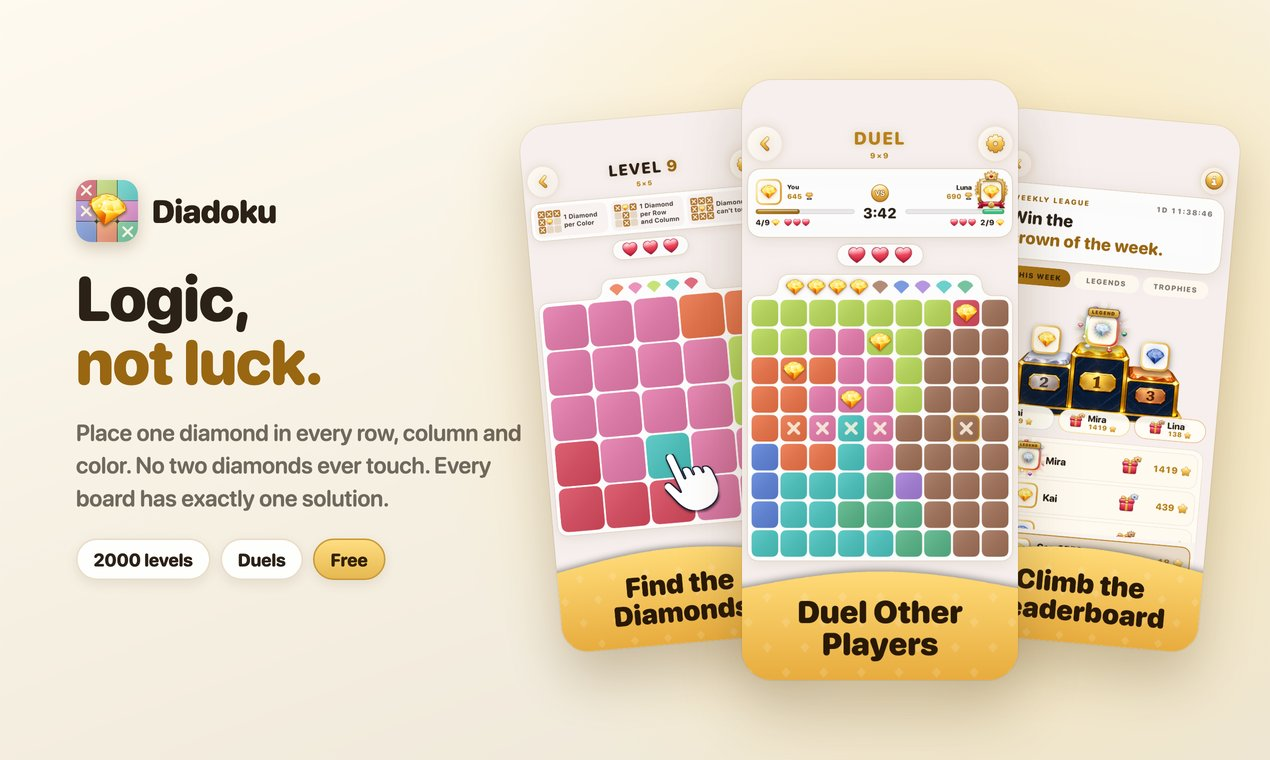
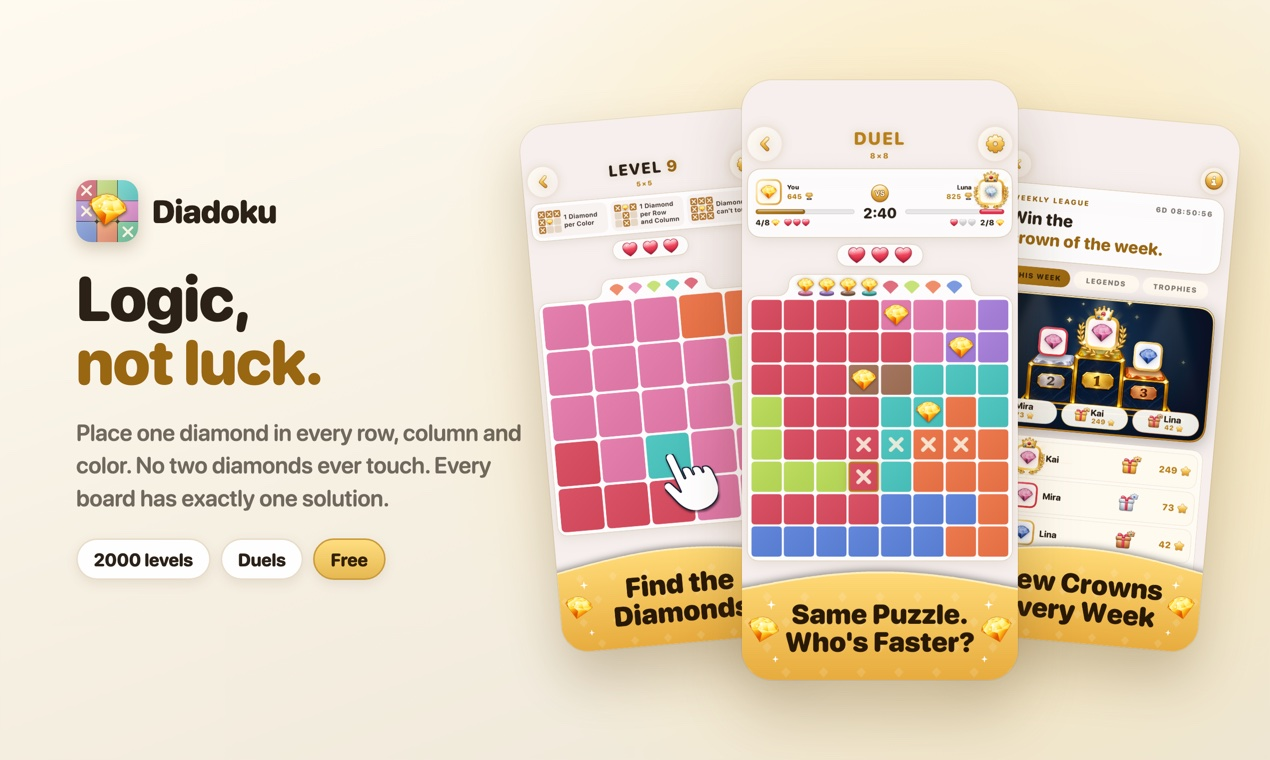
diadoku.com on 1.6: store images A, challenges by link, frame rarity, og image 1.6

diff --git a/index.html b/index.html
@@ -5,13 +5,13 @@
   <meta name="viewport" content="width=device-width, initial-scale=1">
   <meta name="theme-color" content="#fffaf0">
   <title>Diadoku: Logic, not luck</title>
-  <meta name="description" content="A calm logic puzzle for iPhone and iPad. Place one diamond in every row, column and color, and no two diamonds may touch. Every board has exactly one solution. 2000 levels, duels against other players and friends, a daily puzzle and a weekly star league, free.">
+  <meta name="description" content="A calm logic puzzle for iPhone and iPad. Place one diamond in every row, column and color, and no two diamonds may touch. Every board has exactly one solution. 2000 levels, duels against other players, challenges for friends by link, a daily puzzle and a weekly star league, free.">
   <link rel="canonical" href="https://diadoku.com/">
   <meta property="og:type" content="website">
   <meta property="og:title" content="Diadoku: Logic, not luck">
-  <meta property="og:description" content="Place one diamond in every row, column and color. Every board has exactly one solution. 2000 levels and duels with friends, free on iPhone and iPad.">
+  <meta property="og:description" content="Place one diamond in every row, column and color. Every board has exactly one solution. 2000 levels, duels and challenges for your friends, free on iPhone and iPad.">
   <meta property="og:url" content="https://diadoku.com/">
-  <meta property="og:image" content="https://diadoku.com/assets/og.jpg?v=15">
+  <meta property="og:image" content="https://diadoku.com/assets/og.jpg?v=16">
   <meta property="og:image:width" content="1270">
   <meta property="og:image:height" content="760">
   <meta name="twitter:card" content="summary_large_image">
@@ -49,9 +49,9 @@
         </a>
       </div>
       <div class="shots fan" aria-hidden="true">
-        <img src="assets/store/01-find-the-diamonds.webp?v=15" width="660" height="1434" alt="">
-        <img src="assets/store/04-duel-other-players.webp?v=15" width="660" height="1434" alt="">
-        <img src="assets/store/07-leaderboard.webp?v=15" width="660" height="1434" alt="">
+        <img src="assets/store/06-find-the-diamonds.webp?v=16" width="660" height="1434" alt="">
+        <img src="assets/store/01-same-puzzle.webp?v=16" width="660" height="1434" alt="">
+        <img src="assets/store/02-crowns-every-week.webp?v=16" width="660" height="1434" alt="">
       </div>
     </section>
 
@@ -74,13 +74,13 @@
 
     <section class="feature feature--flip" aria-labelledby="duel-title">
       <div class="copy">
-        <p class="eyebrow">New: Duel your friends</p>
+        <p class="eyebrow">New: Challenge your friends</p>
         <h2 id="duel-title">Same board. <em>Who is faster?</em></h2>
-        <p class="lead">Race another player on the same board, with three hearts and no hints. Win trophies and climb six leagues from Quartz to Diamond, with a new season every month. Or add your friends by name or with a link and race them live.</p>
+        <p class="lead">Race another player on the same board, with three hearts and no hints. Win trophies and climb six leagues from Quartz to Diamond. Won a duel or the daily puzzle? Send a friend the link: the same board, your time to beat. Or add your friends by name and race them live.</p>
       </div>
       <div class="shots pair">
-        <img src="assets/store/04-duel-other-players.webp?v=15" width="660" height="1434" loading="lazy" alt="A duel: you and your opponent race on the same board">
-        <img src="assets/store/05-duel-your-friends.webp?v=15" width="660" height="1434" loading="lazy" alt="The friends screen: invite friends and play them live">
+        <img src="assets/store/01-same-puzzle.webp?v=16" width="660" height="1434" loading="lazy" alt="A duel: you and your opponent race on the same board">
+        <img src="assets/store/03-duel-your-friends.webp?v=16" width="660" height="1434" loading="lazy" alt="The friends screen: invite friends and play them live">
       </div>
     </section>
 
@@ -91,7 +91,7 @@
         <p class="lead">Light your streak flame with the first level of the day, keep it going, earn bonus hints on every 7th day and go for three stars.</p>
       </div>
       <div class="shots single">
-        <img src="assets/store/06-daily-challenge.webp?v=15" width="660" height="1434" loading="lazy" alt="The daily challenge with its streak">
+        <img src="assets/store/04-calm-logic-puzzle.webp?v=16" width="660" height="1434" loading="lazy" alt="The daily challenge">
       </div>
     </section>
 
@@ -99,10 +99,10 @@
       <div class="copy">
         <p class="eyebrow">Weekly league</p>
         <h2 id="league-title">Climb the <em>weekly league.</em></h2>
-        <p class="lead">Collect stars, climb the weekly league and the all-time Legends, and the top 3 win crown frames. Pick your gem avatar and your frame.</p>
+        <p class="lead">Collect stars, climb the weekly league and the all-time Legends, and the top 3 win crown frames. Pick your gem avatar and your frame, and see how rare it is, from Rare to Mythic.</p>
       </div>
       <div class="shots single">
-        <img src="assets/store/07-leaderboard.webp?v=15" width="660" height="1434" loading="lazy" alt="The weekly leaderboard with a podium for the top 3">
+        <img src="assets/store/02-crowns-every-week.webp?v=16" width="660" height="1434" loading="lazy" alt="The weekly leaderboard with a podium for the top 3">
       </div>
     </section>
 
@@ -121,14 +121,14 @@
         </ul>
       </div>
       <div class="shots single">
-        <img src="assets/store/08-light-and-dark.webp?v=15" width="660" height="1434" loading="lazy" alt="The same daily challenge in the light and in the dark look">
+        <img src="assets/store/07-light-and-dark.webp?v=16" width="660" height="1434" loading="lazy" alt="The same daily challenge in the light and in the dark look">
       </div>
     </section>
 
     <section class="final" aria-labelledby="final-title">
       <img src="assets/icon-256.png" width="96" height="96" alt="">
       <h2 id="final-title">Think. Place. Solve.</h2>
-      <p>2000 levels, duels with friends and a new puzzle every day. Free on iPhone and iPad.</p>
+      <p>2000 levels, duels, challenges for your friends and a new puzzle every day. Free on iPhone and iPad.</p>
       <a class="store-badge" href="https://apps.apple.com/app/apple-store/id6808338155?pt=129407361&amp;ct=website&amp;mt=8" target="_blank" rel="noopener noreferrer">
         <svg viewBox="0 0 24 24" aria-hidden="true"><path d="M16.7 12.8c0-2.3 1.9-3.4 2-3.5a4.3 4.3 0 0 0-3.4-1.8c-1.4-.1-2.7.8-3.4.8-.7 0-1.8-.8-3-.8a4.5 4.5 0 0 0-3.8 2.3c-1.6 2.8-.4 6.9 1.1 9.2.8 1.1 1.6 2.3 2.7 2.2 1.1 0 1.5-.7 2.9-.7s1.8.7 3 .7 2-1.1 2.7-2.3a10 10 0 0 0 1.2-2.5 4 4 0 0 1-2-3.6ZM14.4 6a4.2 4.2 0 0 0 1-3 4.3 4.3 0 0 0-2.8 1.5 4 4 0 0 0-1 2.9 3.6 3.6 0 0 0 2.8-1.4Z"/></svg>
         <span><small>Download on the</small><strong>App Store</strong></span>

diff --git a/404.html b/404.html
@@ -9,7 +9,7 @@
   <meta name="description" content="Same board, who's faster? Race your friend's time in Diadoku. Free on iPhone and iPad.">
   <meta property="og:title" content="A friend challenges you in Diadoku">
   <meta property="og:description" content="Same board, who's faster?">
-  <meta property="og:image" content="https://diadoku.com/assets/og.jpg?v=15">
+  <meta property="og:image" content="https://diadoku.com/assets/og.jpg?v=16">
   <link rel="icon" href="/favicon.ico" sizes="any">
   <link rel="apple-touch-icon" href="/assets/apple-touch-icon.png">
   <link rel="stylesheet" href="/styles.css?v=3">
